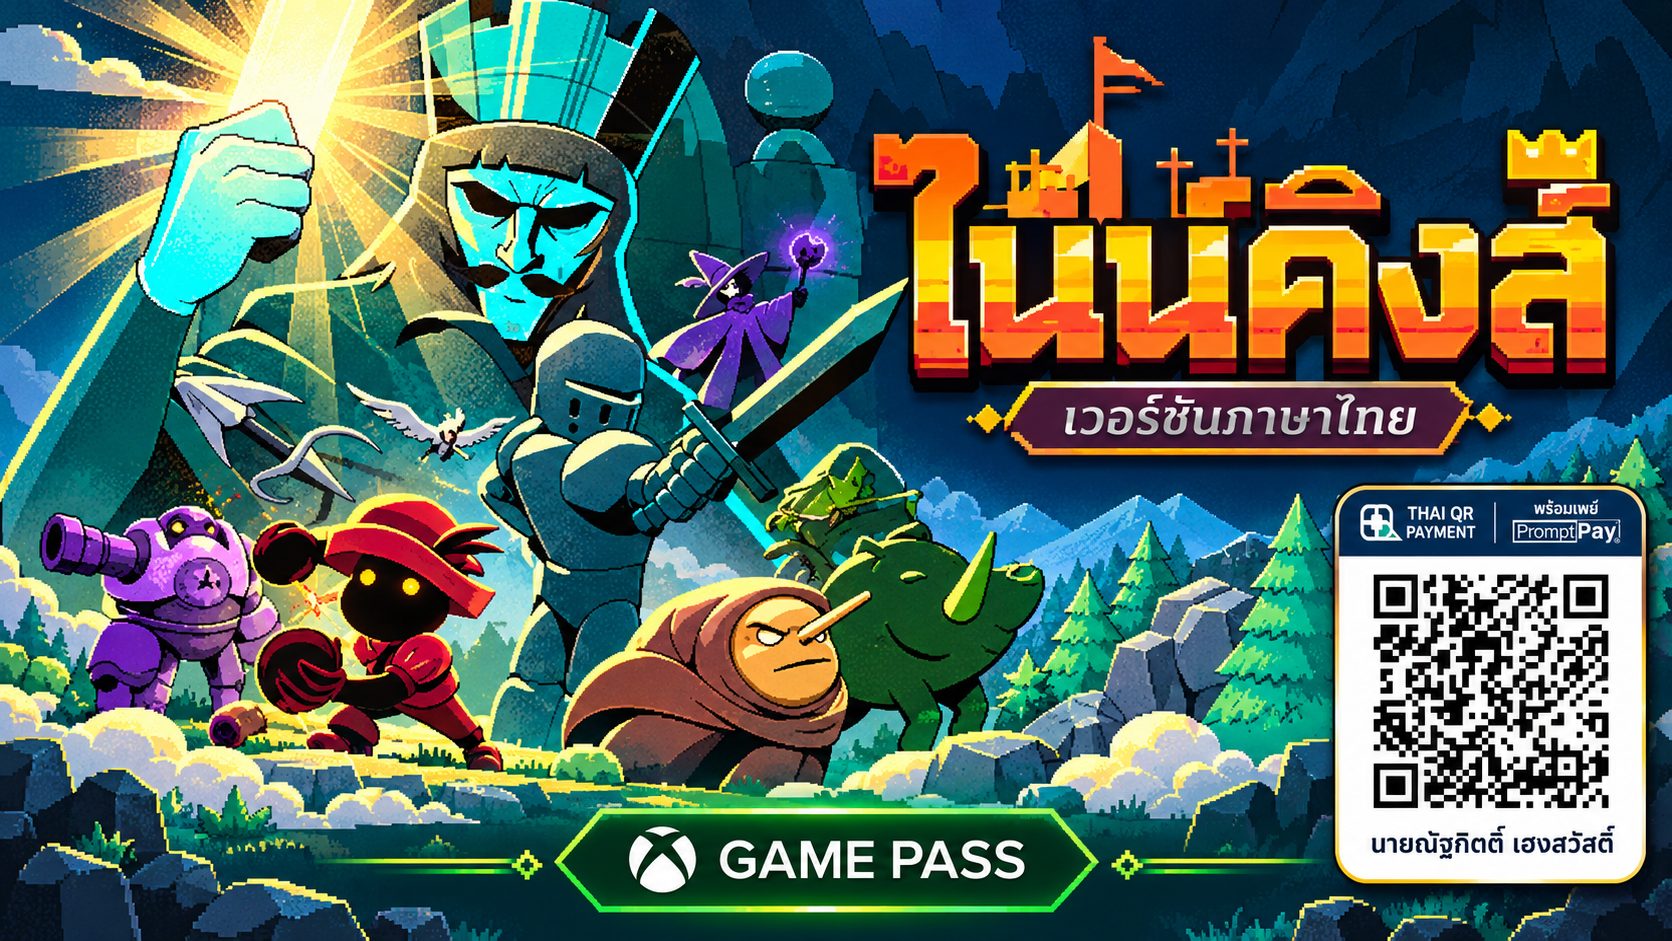
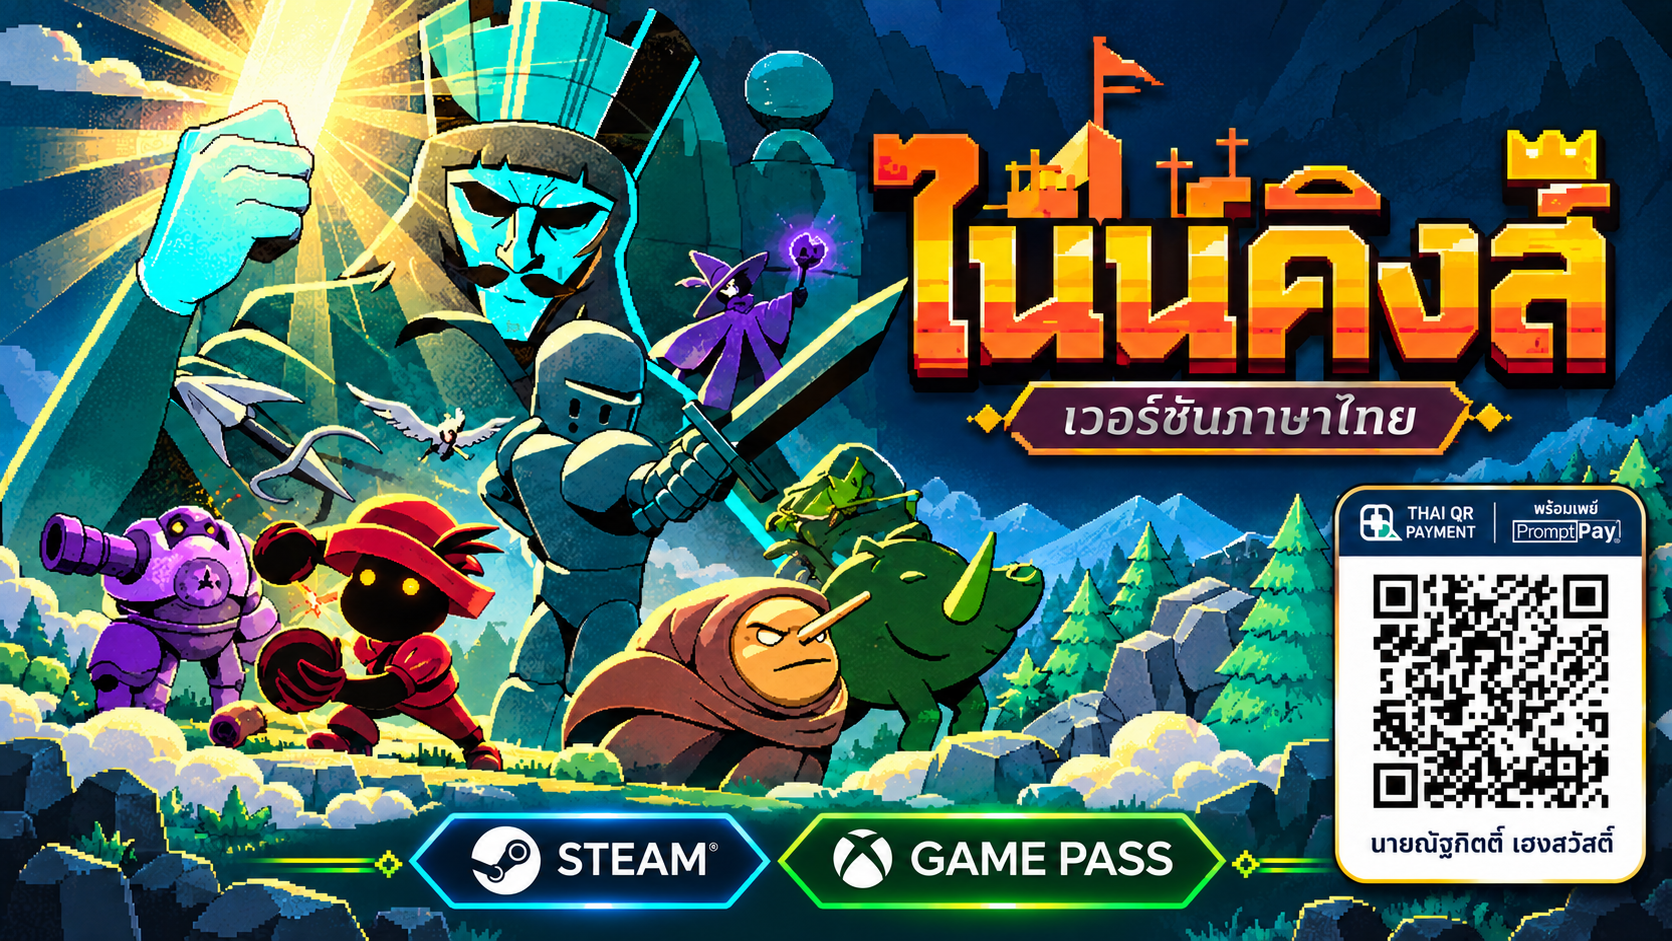
Update 9 Kings (v1.2 Steam/Game Pass), Outward DE (v2.0), and Tales of Graces f (v3.0) with new covers (#56)

diff --git a/app.js b/app.js
@@ -1,12 +1,13 @@
 const mods = [
   {
     id: "9-kings", title: "9 Kings", thaiTitle: "ไนน์คิงส์: ตำนานราชันย์พิกเซล", code: "NK-042",
-    version: "1.1", gameBuild: "Steam · PC", platform: "pc", source: "nexus", store: "https://store.steampowered.com/app/2784470/9_Kings/",
+    version: "1.2", gameBuild: "Steam / Game Pass · PC", platform: "pc", source: "nexus", store: "https://store.steampowered.com/app/2784470/9_Kings/",
     purchaseLinks: [
       { label: "ซื้อบน Steam", href: "https://store.steampowered.com/app/2784470/9_Kings/" },
+      { label: "ค้นหาบน Xbox / Game Pass", href: "https://www.xbox.com/en-us/search/results?q=9%20Kings" },
       { label: "เปรียบเทียบราคาจากร้านทางการ", href: "https://isthereanydeal.com/search/?q=9%20Kings" }
     ],
-    statusText: "พร้อมโหลด", date: "2026-11-20", popularity: 100, size: "ดูที่ Nexus Mods", translator: "มีเกมก็แปล By.Stamp Nattakit",
+    statusText: "พร้อมโหลด", date: "2026-11-21", popularity: 100, size: "ดูที่ Nexus Mods", translator: "มีเกมก็แปล By.Stamp Nattakit",
     category: "card", tags: ["Roguelike", "Strategy", "Kingdom Builder", "แปลครบ"], colors: ["#2b1810", "#f59e0b"], cover: "assets/cover-9-kings.png",
     gallery: [
       "https://shared.akamai.steamstatic.com/store_item_assets/steam/apps/2784470/8a33a3ab2c3226768c4653009354ee8af6da0ff8/ss_8a33a3ab2c3226768c4653009354ee8af6da0ff8.600x338.jpg?t=1794598226",
@@ -14,8 +15,8 @@ const mods = [
       "https://shared.akamai.steamstatic.com/store_item_assets/steam/apps/2784470/930e1484af2a1eb7a9744aac9e720d93a4084233/ss_930e1484af2a1eb7a9744aac9e720d93a4084233.600x338.jpg?t=1794598226"
     ], trailerTitle: "9 Kings — Official Steam Trailer",
     description: "ม็อดภาษาไทยสำหรับ 9 Kings เกมแนว Roguelike Kingdom Builder วางแผนสร้างอาณาจักรและจัดทัพประจัญบานสุดมันส์ ขยายอาณาเขตอาณาจักรของคุณ ผสมผสานการ์ดสิ่งปลูกสร้าง กองทัพทหาร เวทมนตร์ และพระราชกฤษฎีกานับพันรูปแบบเพื่อสร้างคอมโบสุดโกง รับมือศึกสงครามขนาดมหึมาและโค่นล้มราชันย์คู่แข่งทั้ง 9 เพื่อก้าวขึ้นเป็นราชาเหนือราชันย์ (King of Kings) แปลไทยจัดเต็มทั้งชื่อและคำอธิบายการ์ดทุกใบ ความสามารถราชันย์ สิ่งปลูกสร้าง ยูนิตทหาร คาถา พระราชกฤษฎีกา (Decrees) เหตุการณ์สุ่ม เมนู และ UI ทั้งหมด 100% พร้อมฟอนต์ไทยคมชัดอ่านง่าย",
-    changelog: ["อัปเดตม็อดภาษาไทยเวอร์ชัน 1.1 บน Nexus Mods", "เผยแพร่ม็อดภาษาไทยเวอร์ชัน 1.0 สำหรับ Steam บน Nexus Mods", "แปลชื่อและคำอธิบายการ์ด สิ่งปลูกสร้าง ยูนิต กองทัพ และพระราชกฤษฎีกาทั้งหมด", "แปลความสามารถของราชันย์ทั้ง 9 เหตุการณ์ในเกม เมนู และ UI ครบ 100%"],
-    install: ["ดาวน์โหลดม็อดจากแท็บ Files บน Nexus Mods และแตกไฟล์ .zip", "นำไฟล์หรือโฟลเดอร์ภาษาไทยไปวางทับในโฟลเดอร์ตัวเกมหลัก (Steam: คลิกขวาที่ชื่อเกม > จัดการ > เปิดดูไฟล์ในเครื่อง)", "เปิดเกม 9 Kings ผ่าน Steam แล้วเริ่มสร้างอาณาจักรพิกเซลเป็นภาษาไทยได้ทันที"],
+    changelog: ["อัปเดตม็อดภาษาไทยเวอร์ชัน 1.2 รองรับทั้ง Steam และ Game Pass บน Nexus Mods", "อัปเดตม็อดภาษาไทยเวอร์ชัน 1.1 บน Nexus Mods", "เผยแพร่ม็อดภาษาไทยเวอร์ชัน 1.0 สำหรับ Steam บน Nexus Mods", "แปลชื่อและคำอธิบายการ์ด สิ่งปลูกสร้าง ยูนิต กองทัพ และพระราชกฤษฎีกาทั้งหมด", "แปลความสามารถของราชันย์ทั้ง 9 เหตุการณ์ในเกม เมนู และ UI ครบ 100%"],
+    install: ["ดาวน์โหลดม็อดจากแท็บ Files บน Nexus Mods และแตกไฟล์ .zip", "นำไฟล์หรือโฟลเดอร์ภาษาไทยไปวางทับในโฟลเดอร์ตัวเกมหลัก (รองรับทั้ง Steam และ PC Game Pass)", "เปิดเกม 9 Kings ผ่าน Steam หรือแอป Xbox (Game Pass) แล้วเริ่มสร้างอาณาจักรพิกเซลเป็นภาษาไทยได้ทันที"],
     sha: "ตรวจสอบรายละเอียดไฟล์บน Nexus Mods", nexus: "https://www.nexusmods.com/9kings/mods/8?tab=files", drive: "", mediafire: "",
     post: "https://www.nexusmods.com/9kings/mods/8?tab=files"
   },
@@ -361,20 +362,20 @@ const mods = [
   },
   {
     id: "outward-definitive-edition", title: "Outward Definitive Edition", thaiTitle: "เอาต์เวิร์ด ดีฟินิทิฟ เอดิชัน", code: "OW-024",
-    version: "1.0", gameBuild: "Steam · PC (Definitive Edition)", platform: "pc", source: "nexus", store: "https://store.steampowered.com/app/794260/Outward_Definitive_Edition/",
+    version: "2.0", gameBuild: "Steam · PC (Definitive Edition)", platform: "pc", source: "nexus", store: "https://store.steampowered.com/app/794260/Outward_Definitive_Edition/",
     purchaseLinks: [
       { label: "ซื้อบน Steam", href: "https://store.steampowered.com/app/794260/Outward_Definitive_Edition/" },
       { label: "เปรียบเทียบราคาจากร้านทางการ", href: "https://isthereanydeal.com/search/?q=Outward%20Definitive%20Edition" }
     ],
-    statusText: "พร้อมโหลด", date: "2026-10-13", popularity: 100, size: "ดูที่ Nexus Mods", translator: "มีเกมก็แปล By.Stamp Nattakit",
-    category: "action", tags: ["Action RPG", "Survival", "Open World", "แปลครบ"], colors: ["#1f241a", "#b87333"], cover: "assets/cover-outward-definitive-edition.jpg",
+    statusText: "พร้อมโหลด", date: "2026-11-21", popularity: 100, size: "ดูที่ Nexus Mods", translator: "มีเกมก็แปล By.Stamp Nattakit",
+    category: "action", tags: ["Action RPG", "Survival", "Open World", "แปลครบ"], colors: ["#1f241a", "#b87333"], cover: "assets/cover-outward-definitive-edition.png",
     gallery: [
       "https://shared.akamai.steamstatic.com/store_item_assets/steam/apps/794260/ss_251c8ef1c93a999d05572b16886224d8aab95f27.600x338.jpg?t=1787229712",
       "https://shared.akamai.steamstatic.com/store_item_assets/steam/apps/794260/ss_abd9187020fa918e56539455dd6d1ac9d3f3e212.600x338.jpg?t=1787229712",
       "https://shared.akamai.steamstatic.com/store_item_assets/steam/apps/794260/ss_2e15a19569ad372956f49d321e83ce40666401a6.600x338.jpg?t=1787229712"
     ], trailerTitle: "Outward: Definitive Edition — Release Trailer",
     description: "ม็อดภาษาไทยสำหรับ Outward Definitive Edition เกมแนว Open-World Action RPG เอาชีวิตรอดสุดฮาร์ดคอร์ที่คุณเป็นเพียงคนธรรมดา ไม่ใช่ผู้ถูกเลือก สัมผัสความท้าทายในการผจญภัย ทั้งการจัดการความหิว ความกระหาย ความหนาวเหน็บ พิษ และโรคภัย พร้อมเนื้อหาครบทั้งเกมหลักและ DLC ครบชุด (The Soroboreans และ The Three Brothers) แปลไทยจัดเต็มทั้งเนื้อเรื่อง เควสต์หลัก เควสต์ฝ่าย คัตซีน บทสนทนา คาถาเวทมนตร์ สกิล อุปกรณ์สวมใส่ ไอเทม กระเป๋าเดินทาง การคราฟต์ เมนู และ UI ทั้งหมด 100% พร้อมฟอนต์ไทยคมชัดสบายตา",
-    changelog: ["เผยแพร่ม็อดภาษาไทยเวอร์ชัน 1.0 บน Nexus Mods", "แปลเนื้อเรื่องหลัก เควสต์ฝ่าย และเนื้อหา DLC The Soroboreans / The Three Brothers ครบถ้วน", "แปลระบบเอาชีวิตรอด สกิล เวทมนตร์ ไอเทม การคราฟต์ เมนู และ UI ครบ 100%"],
+    changelog: ["อัปเดตม็อดภาษาไทยเวอร์ชัน 2.0 บน Nexus Mods", "เผยแพร่ม็อดภาษาไทยเวอร์ชัน 1.0 บน Nexus Mods", "แปลเนื้อเรื่องหลัก เควสต์ฝ่าย และเนื้อหา DLC The Soroboreans / The Three Brothers ครบถ้วน", "แปลระบบเอาชีวิตรอด สกิล เวทมนตร์ ไอเทม การคราฟต์ เมนู และ UI ครบ 100%"],
     install: ["ดาวน์โหลดม็อดจากแท็บ Files บน Nexus Mods และแตกไฟล์ .zip", "นำไฟล์หรือโฟลเดอร์ภาษาไทยไปวางทับในโฟลเดอร์ตัวเกมหลัก (Steam: คลิกขวาที่ชื่อเกม > จัดการ > เปิดดูไฟล์ในเครื่อง)", "เปิดเกม Outward Definitive Edition ผ่าน Steam แล้วออกผจญภัยเป็นภาษาไทยได้ทันที"],
     sha: "ตรวจสอบรายละเอียดไฟล์บน Nexus Mods", nexus: "https://www.nexusmods.com/outward/mods/369?tab=files", drive: "",
     post: "https://www.nexusmods.com/outward/mods/369?published=1"
@@ -501,21 +502,21 @@ const mods = [
   },
   {
     id: "tales-of-graces-f-remastered", title: "Tales of Graces f Remastered", thaiTitle: "เทลส์ ออฟ เกรซส์ เอฟ รีมาสเตอร์", code: "TG-010",
-    version: "2.0", gameBuild: "Steam · PC", platform: "pc", source: "nexus", store: "https://store.steampowered.com/app/2530980/Tales_of_Graces_f_Remastered/",
+    version: "3.0", gameBuild: "Steam · PC", platform: "pc", source: "nexus", store: "https://store.steampowered.com/app/2530980/Tales_of_Graces_f_Remastered/",
     purchaseLinks: [
       { label: "ซื้อบน Steam", href: "https://store.steampowered.com/app/2530980/Tales_of_Graces_f_Remastered/" },
       { label: "เปรียบเทียบราคาจากร้านทางการ", href: "https://isthereanydeal.com/game/tales-of-graces-f-remastered/info/" }
     ],
-    statusText: "พร้อมโหลด", date: "2026-10-04", popularity: 100, size: "ดูที่ Nexus Mods", translator: "มีเกมก็แปล By.Stamp Nattakit",
-    category: "action", tags: ["JRPG", "Action RPG", "เนื้อเรื่อง", "แปลครบ"], colors: ["#162b4c", "#2563eb"], cover: "assets/cover-tales-of-graces-f-remastered.jpg",
+    statusText: "พร้อมโหลด", date: "2026-11-21", popularity: 100, size: "ดูที่ Nexus Mods", translator: "มีเกมก็แปล By.Stamp Nattakit",
+    category: "action", tags: ["JRPG", "Action RPG", "เนื้อเรื่อง", "แปลครบ"], colors: ["#162b4c", "#2563eb"], cover: "assets/cover-tales-of-graces-f-remastered.png",
     gallery: [
       "https://shared.akamai.steamstatic.com/store_item_assets/steam/apps/2530980/ss_2f361f479032d3787fe24dbb14af987f764af756.600x338.jpg?t=1739758056",
       "https://shared.akamai.steamstatic.com/store_item_assets/steam/apps/2530980/ss_1d3e4ec707d98508d63e8429f888a78199472f22.600x338.jpg?t=1739758056",
       "https://shared.akamai.steamstatic.com/store_item_assets/steam/apps/2530980/ss_8f433e6dafdfe4f8e7b5337ed6fdeb9ee448b762.600x338.jpg?t=1739758056"
     ], trailerTitle: "Tales of Graces f Remastered — Official Trailer",
     description: "ม็อดภาษาไทยสำหรับ Tales of Graces f Remastered มหากาพย์ JRPG สุดคลาสสิกฉบับรีมาสเตอร์ สัมผัสเรื่องราวแห่งมิตรภาพและพันธสัญญาของ Asbel และเพื่อนๆ แปลไทยครบทั้งเนื้อเรื่องหลัก เนื้อเรื่องเสริม Lineage and Legacies บทสนทนา คัตซีน สกิต (Skit) ระบบต่อสู้ สไตล์ชิฟต์ (Style Shift) อาร์เต้ (Artes) ฉายา (Titles) เมนู และ UI ทั้งหมด",
-    changelog: ["อัปเดตแพตช์เวอร์ชัน 2.0 (TOGf Remastered ThaiPatch V2) ปรับปรุงบทแปล ข้อความ และความลื่นไหล", "แปลเนื้อเรื่องหลักและบทเสริม Lineage and Legacies ครบถ้วน", "แปลบทสนทนา สกิต (Skit) สกิลการต่อสู้ สไตล์ชิฟต์ และ UI ครบ 100%"],
-    install: ["ดาวน์โหลดแพตช์ภาษาไทยเวอร์ชันล่าสุด (V2) จากแท็บ Files บน Nexus Mods", "แตกไฟล์ .zip ที่ดาวน์โหลดมา", "นำไฟล์ไปวางทับในโฟลเดอร์ตัวเกมหลัก (Steam: คลิกขวาที่ชื่อเกม > จัดการ > เปิดดูไฟล์ในเครื่อง)", "เข้าเกมแล้วร่วมผจญภัยเป็นภาษาไทยได้ทันที"],
+    changelog: ["อัปเดตแพตช์ภาษาไทยเวอร์ชัน 3.0 บน Nexus Mods", "อัปเดตแพตช์เวอร์ชัน 2.0 (TOGf Remastered ThaiPatch V2) ปรับปรุงบทแปล ข้อความ และความลื่นไหล", "แปลเนื้อเรื่องหลักและบทเสริม Lineage and Legacies ครบถ้วน", "แปลบทสนทนา สกิต (Skit) สกิลการต่อสู้ สไตล์ชิฟต์ และ UI ครบ 100%"],
+    install: ["ดาวน์โหลดแพตช์ภาษาไทยเวอร์ชันล่าสุด (V3.0) จากแท็บ Files บน Nexus Mods", "แตกไฟล์ .zip ที่ดาวน์โหลดมา", "นำไฟล์ไปวางทับในโฟลเดอร์ตัวเกมหลัก (Steam: คลิกขวาที่ชื่อเกม > จัดการ > เปิดดูไฟล์ในเครื่อง)", "เข้าเกมแล้วร่วมผจญภัยเป็นภาษาไทยได้ทันที"],
     sha: "ตรวจสอบรายละเอียดไฟล์บน Nexus Mods", nexus: "https://www.nexusmods.com/talesofgracesfremastered/mods/10?tab=files", drive: "",
     post: "https://www.nexusmods.com/talesofgracesfremastered/mods/10?tab=files"
   },
